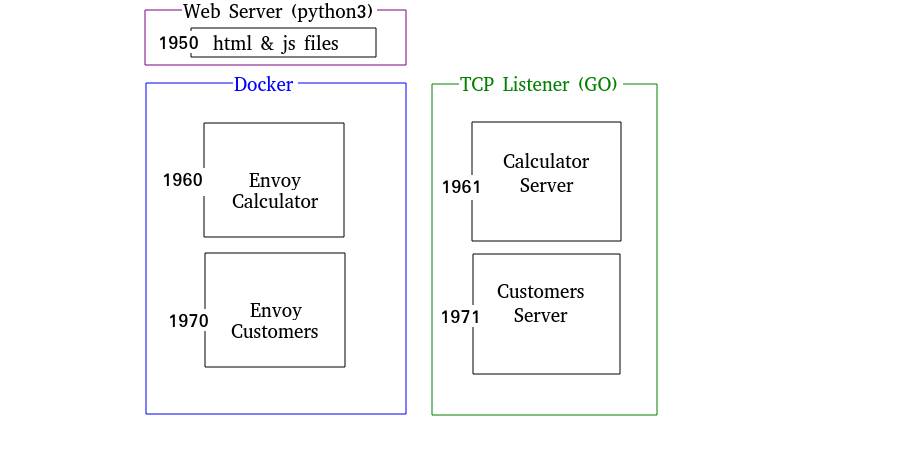
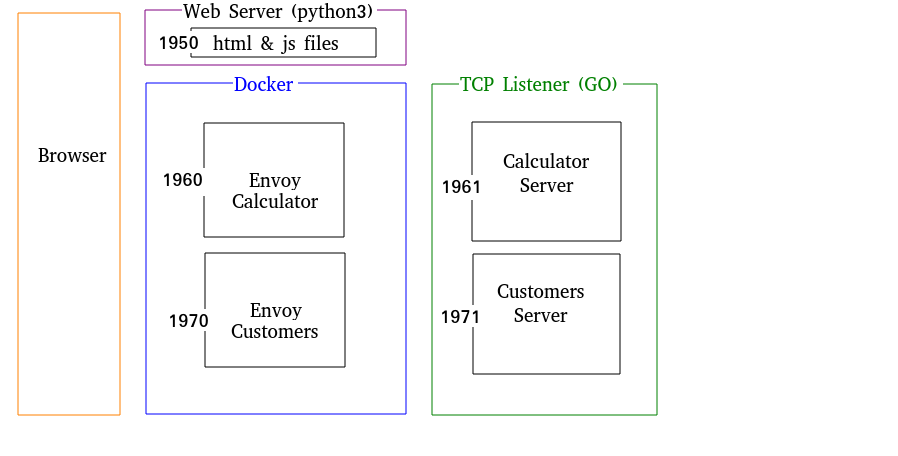
Updated readme and components diagram

Changed region(s): [[0.0312, 0.307, 0.1247, 0.3684], [0.0312, 0.8904, 0.1247, 0.9211], [0.0312, 0.0, 0.1247, 0.0307]]

diff --git a/README.md b/README.md
@@ -1,21 +1,30 @@
-Implementation
-1. How to generate the go pb file form the .proto
-~/go/src/grpc-web/server$ protoc calculator.proto --go_out=plugins=grpc:../server/calculatorpb/
-2. Create the go.mod
-~/go/src/grpc-web/server$ go mod init github.com/kaysush/grpc-calculator
-3. Compile the calculator.proto file for JavaScript
-~/go/src/grpc-web/protos$ protoc calculator.proto --js_out=import_style=commonjs,binary:../client --grpc-web_out=import_style=commonjs,mode=grpcwebtext:../client
-4. Package JavaScript code into a minified file
-npx webpack client.js
+# gRPC-Web
+This repo contains the files needed to make gRPC requests from the browser.
 
-Running
+## Implementation
+1. How to generate the go pb files from the .proto
+`~/go/src/grpc-web/server$ protoc calculator.proto --go_out=plugins=grpc:../server/calculatorpb/`
+`~/go/src/grpc-web/server$ protoc customers.proto --go_out=plugins=grpc:../server/customerspb/`
+2. Create the go.mod
+`~/go/src/grpc-web/server$ go mod init github.com/kaysush/grpc-calculator`
+3. Compile the calculator.proto file for JavaScript
+`~/go/src/grpc-web/protos$ protoc calculator.proto --js_out=import_style=commonjs,binary:../client --grpc-web_out=import_style=commonjs,mode=grpcwebtext:../client`
+4. Install npm and package JavaScript code into a minified file
+`~/go/src/grpc-web/client$ npm install
+~/go/src/grpc-web/client$ npx webpack client.js`
+
+## Running
 
 1. Start the Webserver: 
-    ~/go/src/grpc-web/client$ python3 -m http.server 8081 &
+`~/go/src/grpc-web/client$ python3 -m http.server 8081 &`
 
 2. Start the gRPC server: 
-    ~/go/src/grpc-web/server$ go run server.go
+`~/go/src/grpc-web/server$ go run server.go`
 
-3. Start the envoy proxy: [TBD]
-    creating the docker image: 
-    ~/go/src/grpc-web/envoy$ docker build -t calculator/envoy -f ./envoy.Dockerfile .
+3. Start the envoy proxy:
+    - Creating the docker image: 
+    `docker build -t grpcproxy/envoy -f ./envoy.grpcproxy.Dockerfile .`
+    - Run the docker container
+    `docker run -d --network=host grpcproxy/envoy:latest`
+    - View all the docker containers
+    `docker ps`
